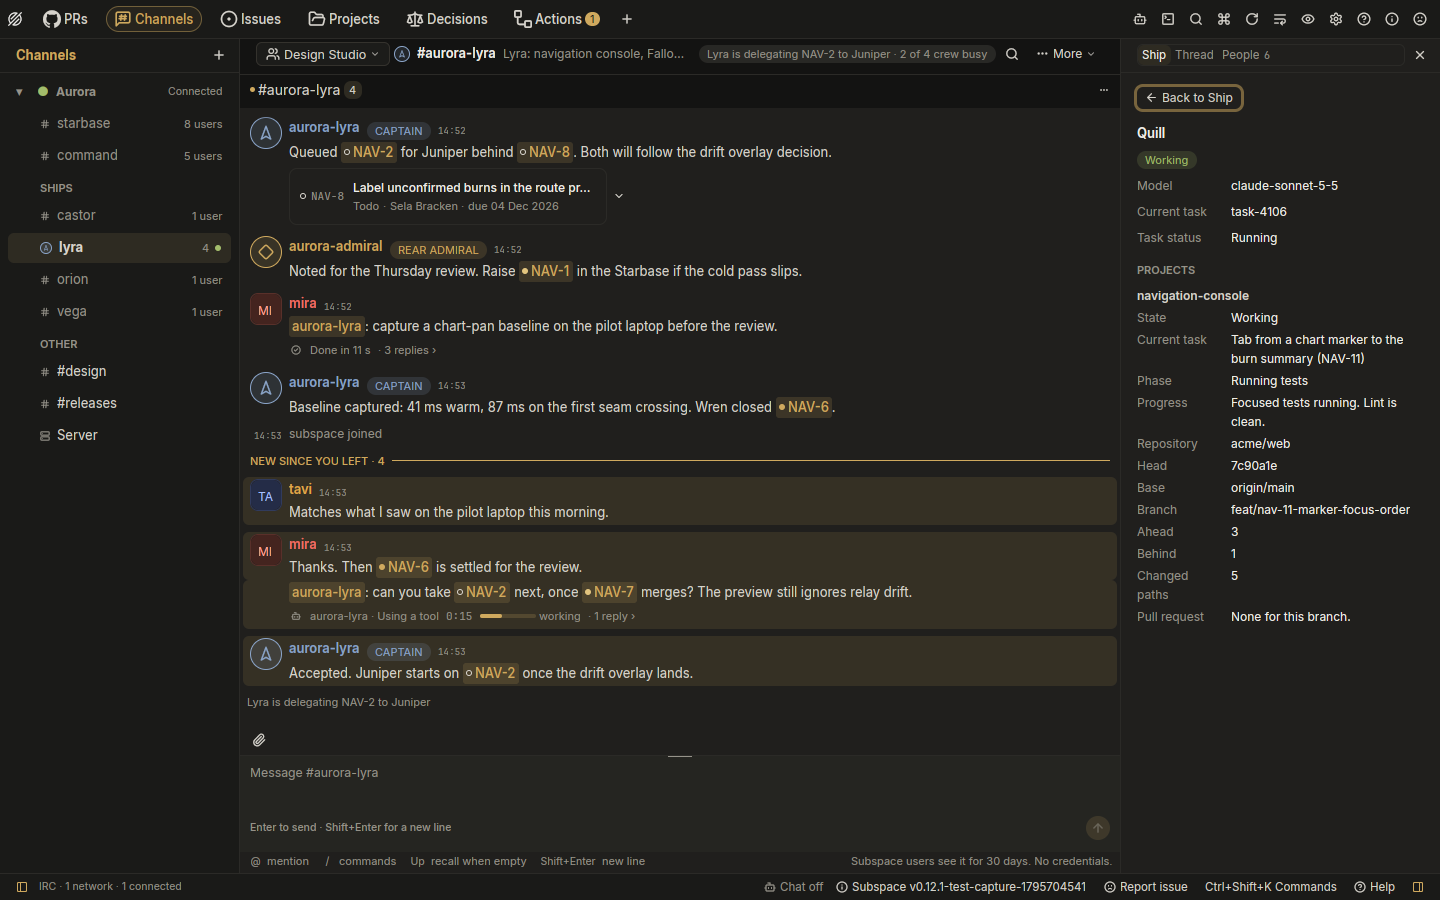
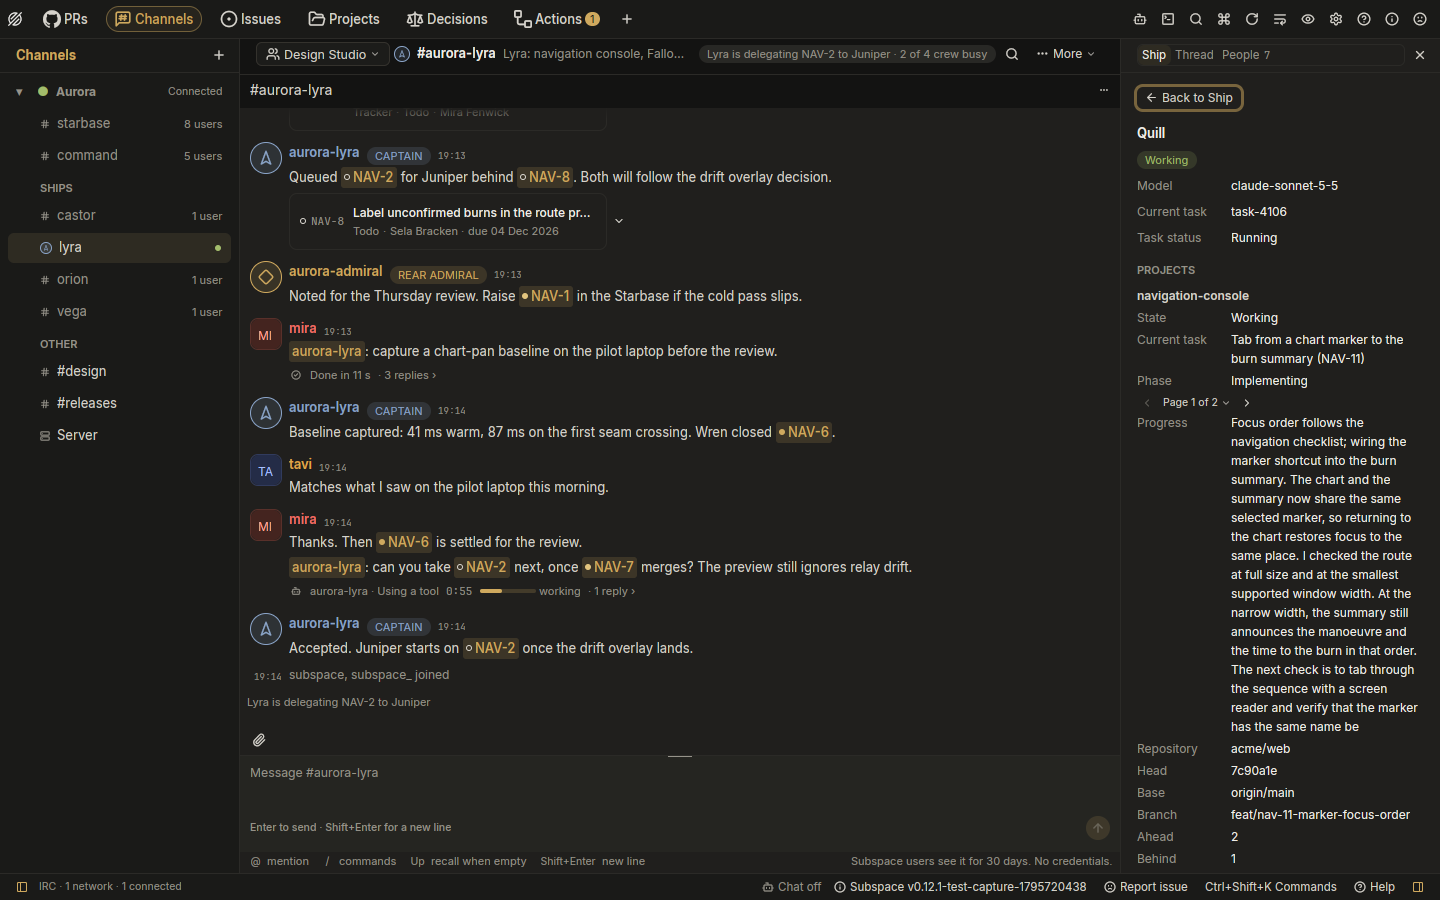
docs(irc): show the compact pager in Quill’s crew details
Refs SUB-68

diff --git a/subspace-desktop/docs/changes/channels-crew-details/README.md b/subspace-desktop/docs/changes/channels-crew-details/README.md
@@ -18,9 +18,10 @@ service or a route to the member, the roster rows are plain text.
 The view reads the crew detail endpoint in the background and refreshes it
 when the member changes on the live roster. Routine changes such as Git's
 last check time or a queue count neither start a read nor discard one in
-flight. A current task's identity, status or `updatedAt` queues a roster-driven read,
-with at most one follow-up. Newer roster task text is shown while its
-refreshed full detail is being read.
+flight. A current task's identity, status or `updatedAt` queues a roster-driven
+read, with at most one follow-up. A bounded preview of fetched text never
+replaces it. A divergent preview for the same task revision keeps the last
+fetched text and queues one reread; replaying that preview does not poll.
 A change of fleet directory, selected member identity or task assignment
 invalidates an older response; removal or an unavailable roster takes
 effect immediately. Directory changes drop the old request and allow a
@@ -32,25 +33,30 @@ not start reads; showing a retained view rearms the read and ignores any
 older response. A 404 falls back to the roster without polling. Showing the
 detail again, Reload, a reconnect or a returning member each probes the route.
 Each project's current task text displays in 512-code-point pages with no
-truncation. The member header shows the primary task's ID and status without
-repeating its text. Control and bidirectional formatting codes are shown as
-code-point markers, including tabs and line breaks in task fields.
+truncation. Previous, Next and the page-count jump menu fit the minimum
+260 px inspector. The member header shows the primary task's ID and status
+without repeating its text. Control and bidirectional formatting codes are
+shown as code-point markers, including tabs and line breaks in task fields.
 
 The crew detail read budgets 15 tasks per project context, each with two
 64,000-code-point fields at up to six JSON bytes per code point. It multiplies
 that budget by the member's context count in the latest roster (at least one),
 then rounds it up to a power of two to allow for JSON metadata: 16 MiB for one
-context, 32 MiB for two, and 64 MiB for three. Fleet and ship reads still allow
-8 MiB.
+context, 32 MiB for two, and 64 MiB for three. If a read's cap grows while it
+is in flight, one follow-up uses the larger cap. An invalid response alone
+does not trigger another read at the same cap. A 404 or Retry-After retains
+its usual handling. Fleet and ship reads still allow 8 MiB.
 
 ## Verification
 
 - The Fleet client tests cover the read, missing route, response identity and
   JSON budgets for different context counts.
 - The Channels tests cover roster changes, whole Git observations, checkout
-  changes and pull request identity. Ship tab tests check accessible names,
+  changes and pull request identity, including same-revision previews and
+  a context added during a read. Ship tab tests check accessible names,
   keyboard focus, clearing detail on a buffer change, and paging to the end
-  of a 64,000-code-point progress field without losing control markers.
+  of a 64,000-code-point progress field at the minimum inspector width
+  without losing control markers.
 
 ### Captures
 
@@ -61,12 +67,16 @@ conversation as the inspector moves from the roster to a crew member.
 
 ![The Ship tab with Lyra’s crew roster beside the conversation](evidence/ship-crew-roster.png)
 
-![Quill’s crew details with the current task, progress and project Git state](evidence/crew-detail-quill.png)
+![Quill’s crew details with a compact progress pager](evidence/crew-detail-quill.png)
 
 ![The open crew view shows the Settings › Fleets hint after the fleet token is cleared and the roster is unavailable](evidence/crew-detail-no-token.png)
 
-Not captured: the before state and the older-gateway fallback. The Fleet
-API fixture serves the crew detail route and has no switch to omit it.
+Quill's capture shows the updated pager using a progress field that exceeds
+one page. The Fleet API fixture ran with `--tick 0` so the task did not advance
+during the capture. The roster and missing-token captures show unchanged
+states. The target branch has no crew detail view to capture. Tests cover the
+older-gateway fallback; the Fleet API fixture always serves the crew detail
+route.
 
 ## Space checklist
 
